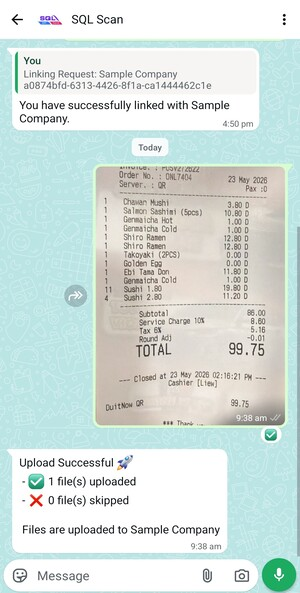
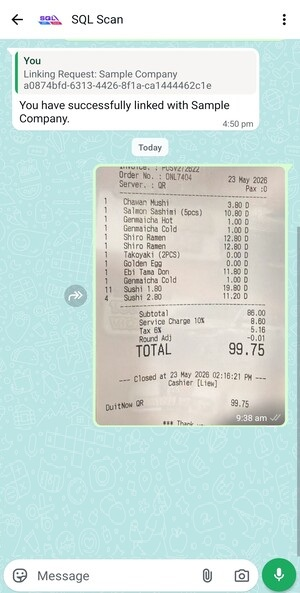
update: update new whatsapp reply message to ai-easyscan

Changed region(s): [[0.03, 0.7589, 0.78, 0.941], [0.87, 0.6981, 0.96, 0.7589]]

diff --git a/docs/miscellaneous/ai-easyscan.md b/docs/miscellaneous/ai-easyscan.md
@@ -88,7 +88,7 @@ AI EasyScan is only available for company databases activated using a valid lice
 
     ![13](../../static/img/miscellaneous/ai-easyscan/13.png)
 
-2. ✅ reaction will appear on the uploaded file, followed by a confirmation message if the upload is successful.
+2. Send it in Whatsapp.
 
     ![14](../../static/img/miscellaneous/ai-easyscan/14.png)
 
